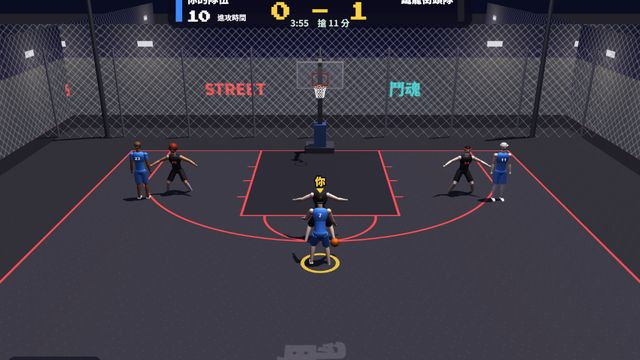
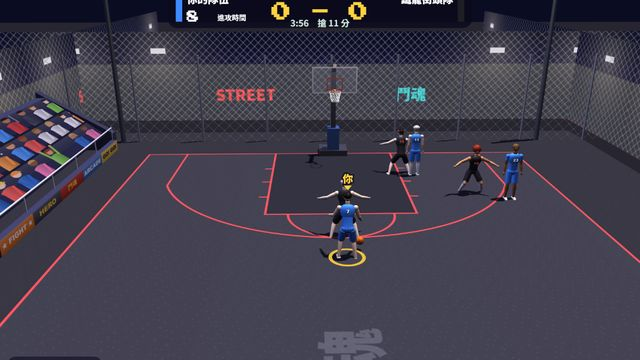
鬥魂系列質感：共用 3D 看台（一排排觀眾、歡呼舉手、廣告牆、欄杆、屋頂）、人物背光、躲避球／足球新貼圖，主視覺重拍 (v321)

Changed region(s): [[0.0, 0.0, 1.0, 0.9167], [0.4375, 0.9167, 0.625, 1.0]]

diff --git a/crowd3d.js b/crowd3d.js
@@ -1,0 +1,79 @@
+// 鬥魂系列共用：3D 看台（階梯座位、一排排的觀眾、廣告看板、欄杆）和觀眾貼圖。
+// window.__CROWD.tex(T,o)  → 觀眾貼圖（兩張：平常／歡呼舉手），o:{night,cols,seed,rows}
+// window.__CROWD.stands(T,o) → {g, update(t,cheer)}；g 的原點在看台最前面中間、地面上，觀眾面向 +Z。
+(function(){
+'use strict';
+const SKIN=['#f2c9a0','#e8b890','#d9a27a','#b8805a','#8a5a3a','#f6d6b8'],HAIR=['#1a1410','#2a1a10','#3a2416','#6a4a2a','#8a6a3a','#c8a060','#2a2a2a','#9a3a1a'];
+function rnd(seed){ let a=seed>>>0||1; return ()=>{ a=a+0x6D2B79F5|0; let t=Math.imul(a^a>>>15,1|a); t=t+Math.imul(t^t>>>7,61|t)^t; return ((t^t>>>14)>>>0)/4294967296; }; }
+const shade=(h,k)=>{ const n=parseInt(String(h).slice(1),16); if(isNaN(n)) return h; const f=v=>Math.max(0,Math.min(255,Math.round(k>1?v+(255-v)*(k-1):v*k))); return 'rgb('+f(n>>16)+','+f(n>>8&255)+','+f(n&255)+')'; };
+// 畫一整面觀眾（一排一排、有座位、有人舉手、拿旗子、戴帽子）
+function paint(c,w,h,o,frame){ const R=rnd(o.seed||7),rows=o.rows||9,rh=h/rows,night=!!o.night;
+  const cols=(o.cols&&o.cols.length?o.cols:[]).concat(['#ff5d4f','#ffd23f','#3ddbd9','#ffffff','#ff7eb6','#86dc4f','#4f9dff','#ff9d3d','#e23b3b','#2f6fd0','#f4f4f4','#3a3a4a']);
+  const seat=night?'#2a2c48':'#4a5068',step=night?'#20223a':'#6a7088';
+  c.fillStyle=step; c.fillRect(0,0,w,h);
+  for(let r=0;r<rows;r++){ const y0=r*rh;
+    // 階梯：每排上面一條亮邊、下面陰影
+    const g=c.createLinearGradient(0,y0,0,y0+rh); g.addColorStop(0,shade(step,1.15)); g.addColorStop(1,shade(step,.75)); c.fillStyle=g; c.fillRect(0,y0,w,rh);
+    c.fillStyle=seat; c.fillRect(0,y0+rh*.42,w,rh*.4); c.fillStyle='rgba(255,255,255,.12)'; c.fillRect(0,y0+rh*.42,w,2);
+    let x=R()*10; const sp=rh*.62;
+    while(x<w+sp){ const empty=R()<.08; if(!empty){ const s=rh/64,cx=x+(R()-.5)*sp*.2,base=y0+rh*.92,sh=cols[Math.floor(R()*cols.length)],sk=SKIN[Math.floor(R()*SKIN.length)],hr=HAIR[Math.floor(R()*HAIR.length)];
+        const up=frame===1?R()<.62:R()<.12,flag=R()<.06,cap=R()<.22,stand=frame===1&&R()<.5,lift=stand?rh*.12:0;
+        // 身體（有亮暗面）
+        const by=base-40*s-lift; const bg=c.createLinearGradient(cx-13*s,0,cx+13*s,0); bg.addColorStop(0,shade(sh,1.15)); bg.addColorStop(1,shade(sh,.72)); c.fillStyle=bg;
+        c.beginPath(); c.moveTo(cx-13*s,base); c.lineTo(cx-12*s,by+6*s); c.quadraticCurveTo(cx,by-2*s,cx+12*s,by+6*s); c.lineTo(cx+13*s,base); c.closePath(); c.fill();
+        // 手：舉起來或放在腿上
+        c.strokeStyle=sh; c.lineCap='round'; c.lineWidth=5*s;
+        if(up){ const sw=(R()-.5)*8*s; for(const d of [-1,1]){ c.beginPath(); c.moveTo(cx+d*10*s,by+8*s); c.lineTo(cx+d*14*s+sw,by-20*s); c.stroke(); c.fillStyle=sk; c.beginPath(); c.arc(cx+d*14*s+sw,by-22*s,3.2*s,0,7); c.fill(); } }
+        else { for(const d of [-1,1]){ c.beginPath(); c.moveTo(cx+d*11*s,by+8*s); c.lineTo(cx+d*6*s,base-8*s); c.stroke(); } }
+        if(flag){ const fx=cx+15*s,fy=by-30*s; c.strokeStyle='#ddd'; c.lineWidth=1.5*s; c.beginPath(); c.moveTo(fx,by+10*s); c.lineTo(fx,fy); c.stroke(); c.fillStyle=cols[Math.floor(R()*3)]; c.beginPath(); c.moveTo(fx,fy); c.lineTo(fx+20*s,fy+5*s+(frame?3*s:0)); c.lineTo(fx,fy+12*s); c.closePath(); c.fill(); }
+        // 頭、頭髮、帽子、臉的陰影
+        const hy=by-9*s; c.fillStyle=sk; c.beginPath(); c.arc(cx,hy,8.5*s,0,7); c.fill(); c.fillStyle='rgba(0,0,0,.12)'; c.beginPath(); c.arc(cx+3*s,hy+2*s,7*s,-.6,1.9); c.fill();
+        if(cap){ c.fillStyle=cols[Math.floor(R()*cols.length)]; c.beginPath(); c.arc(cx,hy-2*s,8.8*s,Math.PI,0); c.fill(); c.fillRect(cx-2*s,hy-3*s,13*s,2.6*s); }
+        else { c.fillStyle=hr; c.beginPath(); c.arc(cx,hy-1.5*s,8.8*s,Math.PI*1.05,Math.PI*1.95); c.fill(); if(R()<.3){ c.fillRect(cx-9*s,hy-2*s,3*s,10*s); c.fillRect(cx+6*s,hy-2*s,3*s,10*s); } }
+        if(night&&R()<.05){ c.fillStyle='rgba(255,255,240,.9)'; c.fillRect(cx+10*s,by-6*s,3*s,4*s); } }
+      x+=sp*(.85+R()*.3); }
+    c.fillStyle='rgba(0,0,0,.18)'; c.fillRect(0,y0+rh-3,w,3); }
+  if(night){ c.fillStyle='rgba(10,12,40,.28)'; c.fillRect(0,0,w,h); } }
+function tex(T,o){ o=o||{}; const out=[0,1].map(fr=>{ const cv=document.createElement('canvas'); cv.width=o.w||1024; cv.height=o.h||512; paint(cv.getContext('2d'),cv.width,cv.height,o,fr); const t=new T.CanvasTexture(cv); t.wrapS=T.RepeatWrapping; t.anisotropy=8; return t; }); return out; }
+// 廣告看板（原創字樣）
+function adTex(T,o){ const cv=document.createElement('canvas'); cv.width=2048; cv.height=96; const c=cv.getContext('2d'); const ads=[['鬥魂','#ffd23f','#c8231a'],['ARCADE','#ffffff','#2f6fd0'],['GO! GO!','#14122b','#ffd23f'],['COLA','#ffffff','#e23b3b'],['SPORT','#ffffff','#1f8a5a'],['RETRO','#ff7eb6','#2a2050'],['★ FIGHT ★','#ffffff','#ff7a1a'],['HERO','#ffd23f','#3a3a4a']];
+  ads.forEach((a,i)=>{ const x=i*256,g=c.createLinearGradient(0,0,0,96); g.addColorStop(0,shade(a[2],1.2)); g.addColorStop(1,shade(a[2],.8)); c.fillStyle=g; c.fillRect(x,0,256,96); c.fillStyle='rgba(255,255,255,.18)'; c.fillRect(x,0,256,8); c.fillStyle='rgba(0,0,0,.35)'; c.fillRect(x+254,0,2,96);
+    c.font='900 50px sans-serif'; c.textAlign='center'; c.textBaseline='middle'; c.fillStyle=a[1]; c.fillText(a[0],x+128,52,230); });
+  const t=new T.CanvasTexture(cv); t.wrapS=T.RepeatWrapping; t.anisotropy=8; return t; }
+// 看台：rows 排、每排深 dz、高 dy；前面一道廣告牆和欄杆；兩側水泥牆；（可選）屋頂和燈
+function stands(T,o){ o=o||{}; const len=o.len||30,rows=o.rows||9,dz=o.dz||.8,dy=o.dy||.55,wallH=o.wall==null?1.1:o.wall,night=!!o.night,g=new T.Group();
+  const conc=new T.MeshLambertMaterial({color:new T.Color(night?'#3a3c58':'#9aa0b0')});
+  const [t0,t1]=tex(T,{night,cols:o.cols,seed:o.seed||11,rows,w:o.texW||2048,h:o.texH||512}); const rep=Math.max(1,len/(o.unit||26)); t0.repeat.set(rep,1); t1.repeat.set(rep,1);
+  // 觀眾斜面（從牆頂往後上方）
+  const depth=rows*dz,height=rows*dy,slope=Math.hypot(depth,height),crowdM=new T.MeshLambertMaterial({map:t0});
+  const cp=new T.Mesh(new T.PlaneGeometry(len,slope),crowdM); cp.position.set(0,wallH+height/2+.25,-depth/2-.3); cp.rotation.x=-Math.atan2(depth,height); /* 往後上方傾斜 */ cp.receiveShadow=true; g.add(cp);
+  // 階梯水泥（看台的實體，讓側面看起來有厚度）
+  const back=new T.Mesh(new T.BoxGeometry(len,height+wallH+.25,.4),conc); back.position.set(0,(height+wallH+.25)/2,-depth-.5); g.add(back);
+  for(const s of [-1,1]){ const sh=new T.Shape(); sh.moveTo(0,0); sh.lineTo(depth+.7,0); sh.lineTo(depth+.7,height+wallH+.5); sh.lineTo(0,wallH+.3); sh.closePath(); const sg=new T.ExtrudeGeometry(sh,{depth:.35,bevelEnabled:false}); const sm=new T.Mesh(sg,conc); sm.rotation.y=Math.PI/2; sm.position.set(s*(len/2)+(s>0?0:-.35),0,0); sm.castShadow=sm.receiveShadow=true; g.add(sm); }
+  // 前面的廣告牆＋欄杆
+  if(wallH>0){ const at=adTex(T); at.repeat.set(Math.max(1,len/16),1); const wall=new T.Mesh(new T.BoxGeometry(len,wallH,.25),[conc,conc,conc,conc,new T.MeshLambertMaterial({map:at}),conc]); wall.position.set(0,wallH/2,0); wall.castShadow=wall.receiveShadow=true; g.add(wall);
+    const rail=new T.MeshPhongMaterial({color:0xc8ccd6,shininess:80,specular:0x777777}); const top=new T.Mesh(new T.CylinderGeometry(.035,.035,len,8),rail); top.rotation.z=Math.PI/2; top.position.set(0,wallH+.55,-.05); g.add(top);
+    for(let x=-len/2;x<=len/2+.01;x+=2){ const p=new T.Mesh(new T.CylinderGeometry(.025,.025,.55,6),rail); p.position.set(x,wallH+.28,-.05); g.add(p); } }
+  // 屋頂和照明
+  if(o.roof){ const rm=new T.MeshLambertMaterial({color:new T.Color(night?'#2a2c40':'#d8dce4')}),rf=new T.Mesh(new T.BoxGeometry(len+1,.25,depth*.8),rm); rf.position.set(0,wallH+height+2.4,-depth*.65); rf.rotation.x=-.12; rf.castShadow=true; g.add(rf);
+    for(let x=-len/2+2;x<len/2;x+=Math.max(4,len/6)){ const col=new T.Mesh(new T.CylinderGeometry(.08,.1,height+2.6,8),rm); col.position.set(x,(wallH+height+2.4)/2,-depth-.2); g.add(col);
+      const lamp=new T.Mesh(new T.BoxGeometry(.8,.25,.2),new T.MeshBasicMaterial({color:night?0xfff6d8:0xe8ecf4})); lamp.position.set(x,wallH+height+2.2,-depth*.3); g.add(lamp); } }
+  let cur=0;
+  return {g,update(t,cheer){ const want=cheer&&Math.floor(t*5)%2?1:0; if(want!==cur){ cur=want; crowdM.map=want?t1:t0; crowdM.needsUpdate=true; } cp.position.y=wallH+height/2+.25+(cheer?Math.abs(Math.sin(t*9))*.04:0); }}; }
+// 球的貼圖（等距長方投影）
+function ballTex(T,kind,col){ const cv=document.createElement('canvas'); cv.width=512; cv.height=256; const c=cv.getContext('2d'),W=512,H=256;
+  if(kind==='soccer'){ c.fillStyle='#f6f6f2'; c.fillRect(0,0,W,H);
+    // 正二十面體的 12 個頂點畫成黑色五角形（經緯度投影，靠近兩極橫向放大）
+    const P=[[90,0]],ph=26.565; for(let i=0;i<5;i++){ P.push([ph,i*72]); P.push([-ph,i*72+36]); } P.push([-90,0]);
+    c.fillStyle='#1c1c24'; for(const [la,lo] of P){ const cy=(90-la)/180*H,cx=lo/360*W,rr=H*.085,sx=1/Math.max(.25,Math.cos(la*Math.PI/180));
+      if(Math.abs(la)>80){ c.fillRect(0,la>0?0:H-rr*.9,W,rr*.9); continue; }
+      for(const off of [-W,0,W]){ c.beginPath(); for(let k=0;k<5;k++){ const a=-Math.PI/2+k/5*Math.PI*2; c.lineTo(cx+off+Math.cos(a)*rr*sx,cy+Math.sin(a)*rr); } c.closePath(); c.fill(); } }
+    c.strokeStyle='rgba(60,60,70,.35)'; c.lineWidth=1.4; for(let i=0;i<14;i++){ c.beginPath(); c.moveTo((i*37)%W,0); c.lineTo((i*37+90)%W,H); c.stroke(); }
+    if(col&&col!=='#ffffff'){ c.globalCompositeOperation='multiply'; c.fillStyle=col; c.fillRect(0,0,W,H); c.globalCompositeOperation='source-over'; } }
+  else if(kind==='dodge'){ const base=col||'#e8402a',g=c.createLinearGradient(0,0,0,H); g.addColorStop(0,shade(base,1.1)); g.addColorStop(1,shade(base,.85)); c.fillStyle=g; c.fillRect(0,0,W,H);
+    for(let i=0;i<6000;i++){ c.fillStyle=i%2?'rgba(0,0,0,.07)':'rgba(255,255,255,.07)'; c.fillRect((i*37.3)%W,(i*17.7)%H,1.5,1.5); }
+    c.strokeStyle=shade(base,.55); c.lineWidth=4; for(let k=0;k<4;k++){ c.beginPath(); for(let x=0;x<=W;x+=4){ const y=H/2+Math.sin(x/W*Math.PI*2*2+k*Math.PI/2)*H*.32; x?c.lineTo(x,y):c.moveTo(x,y); } c.stroke(); }
+    c.fillStyle='rgba(255,255,255,.85)'; c.font='900 40px sans-serif'; c.textAlign='center'; c.textBaseline='middle'; c.fillText('鬥魂',W*.25,H/2); c.fillText('DODGE',W*.75,H/2); }
+  const t=new T.CanvasTexture(cv); t.anisotropy=8; return t; }
+window.__CROWD={tex,stands,adTex,ballTex,paint};
+})();

diff --git a/soccer3d.js b/soccer3d.js
@@ -26,9 +26,11 @@ function make(T,o){ const {W,H,FW,X0,X1,YB,YF,GY0,GY1,cols,bgKey}=o,PI=Math.PI,H
   const fl=add(new T.PlaneGeometry((G1-G0)/SX,(GYb-GYa)/SY),new T.MeshLambertMaterial({map:ftx}),X((G0+G1)/2),0,Z((GYa+GYb)/2)); fl.rotation.x=-PI/2; fl.castShadow=false;
   const outer=add(new T.PlaneGeometry(300,200),new T.MeshLambertMaterial({color:col(o.grass).multiplyScalar(.8)}),0,-.01,0); outer.rotation.x=-PI/2; outer.castShadow=false;
   /* 背景牆：原本的看台、觀眾、廣告看板 */
-  const bc=document.createElement('canvas'); bc.width=FW*2; bc.height=288; const btx=new T.CanvasTexture(bc),BW=FW/SX,BH=BW*144/FW*1.7,BZ=Z(YB)-7;
+  const bc=document.createElement('canvas'); bc.width=FW*2; bc.height=288; const btx=new T.CanvasTexture(bc),BW=FW/SX,BH=BW*144/FW*1.7,BZ=Z(YB)-16;
   btx.wrapS=T.RepeatWrapping; btx.repeat.set(1.6,1); const back=add(new T.PlaneGeometry(BW*1.6,BH),new T.MeshBasicMaterial({map:btx}),X(FW/2),BH/2-1.6,BZ); back.castShadow=back.receiveShadow=false;
   const drawBack=t=>{ const c=bc.getContext('2d'); c.save(); c.scale(2,2); o.bg(c,0,t); c.translate(W-40,0); o.bg(c,W-40,t); c.restore(); btx.needsUpdate=true; }; drawBack(0);
+  const CR=window.__CROWD,ST=CR?CR.stands(T,{len:BW*1.6,rows:10,night,cols:o.cols||[],seed:9,roof:true}):null; if(ST){ ST.g.position.set(X(FW/2),0,Z(YB)-3.2); scene.add(ST.g); }
+  { const rim=new T.DirectionalLight(night?0xa8b8ff:0xfff0e0,.45); rim.position.set(6,10,-24); scene.add(rim); } // 背光：人物輪廓
   /* 球門 */
   const post=ph('#ffffff',70),netM=new T.MeshBasicMaterial({color:0xffffff,transparent:true,opacity:.35,side:T.DoubleSide,wireframe:true,depthWrite:false});
   for(const [gx,d] of [[X0,-1],[X1,1]]){ const x=X(gx),z0=Z(GY0),z1=Z(GY1),hh=2.44,dep=1.4,mz=(z0+z1)/2,wd=z1-z0;
@@ -38,7 +40,7 @@ function make(T,o){ const {W,H,FW,X0,X1,YB,YF,GY0,GY1,cols,bgKey}=o,PI=Math.PI,H
   /* 角旗 */ for(const [x,y] of [[X0,YB],[X0,YF],[X1,YB],[X1,YF]]){ add(new T.CylinderGeometry(.025,.025,1.5,6),ph('#f4f4f4',30),X(x),.75,Z(y)); const f=add(new T.PlaneGeometry(.35,.25),ph('#ff3b3b',10,{side:T.DoubleSide}),X(x)+.17,1.35,Z(y)); f.castShadow=false; }
   /* 球：白底黑色五角形 */
   const bcv=document.createElement('canvas'); bcv.width=256; bcv.height=128; { const c=bcv.getContext('2d'); c.fillStyle=o.ballCol||'#ffffff'; c.fillRect(0,0,256,128); c.fillStyle='#1a1a22'; for(const [x,y] of [[32,30],[96,64],[160,30],[224,64],[32,98],[160,98]]){ c.beginPath(); for(let i=0;i<5;i++){ const a=-PI/2+i/5*PI*2; c.lineTo(x+Math.cos(a)*16,y+Math.sin(a)*16); } c.fill(); } }
-  const ball=add(new T.SphereGeometry(.13,24,16),new T.MeshPhongMaterial({map:new T.CanvasTexture(bcv),shininess:40,specular:0x333333}),0,.13,0); const bglow=add(new T.SphereGeometry(.3,16,12),new T.MeshBasicMaterial({color:0xffffff,transparent:true,opacity:0,depthWrite:false}),0,0,0); bglow.castShadow=bglow.receiveShadow=false;
+  const ball=add(new T.SphereGeometry(.13,24,16),new T.MeshPhongMaterial({map:CR?CR.ballTex(T,'soccer',o.ballCol):new T.CanvasTexture(bcv),shininess:40,specular:0x333333}),0,.13,0); const bglow=add(new T.SphereGeometry(.3,16,12),new T.MeshBasicMaterial({color:0xffffff,transparent:true,opacity:0,depthWrite:false}),0,0,0); bglow.castShadow=bglow.receiveShadow=false;
   /* 球員 */
   const HAIR=['#2a1a10','#1a1418','#7a3b1d','#3a2418'];
   const HP=o.players.map((p,i)=>{ const sh=p.gk?(p.team?'#f2d24a':'#3a3a4a'):cols[p.team],h=H3.build(T,{skin:'#e8b890',shirt:sh,pants:p.gk?'#2a2a30':'#f4f4f4',shoes:'#1a1a22',hair:HAIR[(+p.hair||0)%4],shorts:true,number:p.gk?1:(i%5)+2,numCol:p.gk?'#ffffff':'#ffffff',socks:sh,socksHigh:true});
@@ -52,7 +54,7 @@ function make(T,o){ const {W,H,FW,X0,X1,YB,YF,GY0,GY1,cols,bgKey}=o,PI=Math.PI,H
     if(k===4) return {y:-.7,spine:[-.4,0,0],neck:[.3,0,0],hipR:[-1.5,0,-.05],knR:[.1,0,0],hipL:[-.6,0,.1],knL:[1.4,0,0],shL:[.6,0,.9],shR:[.6,0,-.9],elL:[-.4,0,0],elR:[-.4,0,0]};
     const br=Math.sin(t*2.4+i)*.02; return {y:-.05,spine:[.1+br,0,0],hipL:[-.18,0,.1],hipR:[-.18,0,-.1],knL:[.3,0,0],knR:[.3,0,0],anL:[-.12,0,-.06],anR:[-.12,0,.06],shL:[-.1,0,.2],shR:[-.1,0,-.2],elL:[-.6,0,0],elR:[-.6,0,0]}; }
   const cam=new T.PerspectiveCamera(46,W/H,.1,300),tmp=new T.Vector3(); let lastT=null,frame=0,cx=null,prevB=null;
-  function render(st){ const {P,b,t,camX}=st,dt=lastT==null?.016:Math.min(.1,Math.max(0,t-lastT)); lastT=t; frame++; if(frame%6===1) drawBack(t);
+  function render(st){ const {P,b,t,camX}=st,dt=lastT==null?.016:Math.min(.1,Math.max(0,t-lastT)); lastT=t; frame++; if(frame%6===1) drawBack(t); if(ST) ST.update(t,!!st.cheer);
     P.forEach((p,i)=>{ const E=HP[i]; if(E.lx==null){ E.lx=p.x; E.ly=p.y; } const vx=(p.x-E.lx)/(dt||.016),vy=(p.y-E.ly)/(dt||.016); E.lx=p.x; E.ly=p.y; E.spd+=(Math.hypot(vx,vy)-E.spd)*Math.min(1,dt*10);
       const k=p.state===4||p.slideT>0?4:p.kickT>0?2:p.moving?1:0;
       let ta=p.face>0?PI/2:-PI/2; if((k===1||k===4)&&E.spd>20) ta=Math.atan2(vx/SX,vy/SY); let da=ta-E.ang; while(da>PI) da-=PI*2; while(da<-PI) da+=PI*2; E.ang+=da*Math.min(1,dt*12);

diff --git a/dodge3d.js b/dodge3d.js
@@ -26,14 +26,14 @@ function make(T,o){ const {W,H,X0,X1,MID,YB,YF,cols,bg,court}=o,PI=Math.PI,H3=wi
   const fl=add(new T.PlaneGeometry((G1-G0)/SX,(GY1-GY0)/SY),new T.MeshLambertMaterial({map:ftx}),X((G0+G1)/2),0,Z((GY0+GY1)/2)); fl.rotation.x=-PI/2; fl.castShadow=false;
   const outer=add(new T.PlaneGeometry(200,200),new T.MeshLambertMaterial({color:col(o.ground.g)}),0,-.01,0); outer.rotation.x=-PI/2; outer.castShadow=false;
   /* 背景牆：原本的天空、看台與加油布條 */
-  const bc=document.createElement('canvas'); bc.width=960; bc.height=244; const btx=new T.CanvasTexture(bc),BW=56,BH=BW*244/960,BZ=Z(YB)-8;
+  const bc=document.createElement('canvas'); bc.width=960; bc.height=244; const btx=new T.CanvasTexture(bc),BW=56,BH=BW*244/960,BZ=Z(YB)-13;
   const back=add(new T.PlaneGeometry(BW,BH),new T.MeshBasicMaterial({map:btx}),0,BH/2-1.2,BZ); back.castShadow=back.receiveShadow=false;
   const drawBack=()=>{ const c=bc.getContext('2d'); c.save(); c.scale(2,2); bg(c); c.restore(); btx.needsUpdate=true; }; drawBack();
   /* 看台：場邊兩排階梯座位（立體）＋觀眾 */
-  const stand=new T.Group(); scene.add(stand); const crowdC=['#ff5d4f','#ffd23f','#3ddbd9','#ffffff','#ff7eb6','#86dc4f','#4f9dff','#ff9d3d'];
-  for(let r2=0;r2<3;r2++){ add(new T.BoxGeometry(34,.5,1),ph(night?'#3a3860':'#9aa0b4',10),0,.25+r2*.5,BZ+3.2-r2*1,stand); for(let i=0;i<34;i++){ const fan=new T.Group(); fan.position.set(-16.5+i+(r2%2)*.5,.5+r2*.5,BZ+3.2-r2*1); stand.add(fan); add(new T.BoxGeometry(.42,.5,.3),ph(crowdC[(i*3+r2*5)%8],10),0,.25,0,fan); add(new T.SphereGeometry(.16,10,8),ph('#f0c098',20),0,.66,0,fan); fan.userData.ph=i*.9+r2*2; } }
+  const CR=window.__CROWD,ST=CR?CR.stands(T,{len:44,rows:8,night,cols,seed:5,roof:true}):null; if(ST){ ST.g.position.set(0,0,Z(YB)-3.4); scene.add(ST.g); ST.g.traverse(m=>{ if(m.isMesh){ m.castShadow=m.castShadow&&m.geometry.type!=='PlaneGeometry'; m.receiveShadow=true; } }); }
+  { const rim=new T.DirectionalLight(night?0xa8b8ff:0xfff0e0,.45); rim.position.set(4,9,-18); scene.add(rim); } // 背光：人物輪廓更立體
   /* 球 */
-  const ball=add(new T.SphereGeometry(.16,24,16),ph(o.ballCol||'#ffffff',40),0,.16,0); const bglow=add(new T.SphereGeometry(.34,16,12),new T.MeshBasicMaterial({color:0xffffff,transparent:true,opacity:0,depthWrite:false}),0,0,0); bglow.castShadow=bglow.receiveShadow=false;
+  const ball=add(new T.SphereGeometry(.16,24,16),CR?new T.MeshPhongMaterial({map:CR.ballTex(T,'dodge',o.ballCol&&o.ballCol!=='#ffffff'?o.ballCol:'#e8402a'),shininess:45,specular:0x444444}):ph(o.ballCol||'#ffffff',40),0,.16,0); const bglow=add(new T.SphereGeometry(.34,16,12),new T.MeshBasicMaterial({color:0xffffff,transparent:true,opacity:0,depthWrite:false}),0,0,0); bglow.castShadow=bglow.receiveShadow=false;
   /* 球員 */
   const HAIR=['#2a1a10','#1a1418','#7a3b1d','#3a2418'];
   const HP=o.players.map((p,i)=>{ const h=H3.build(T,{skin:'#e8b890',shirt:cols[p.team],pants:'#2b3f9e',shoes:'#f4f4f4',hair:HAIR[(+p.hair||0)%4],shorts:true,number:(i%6)+1,numCol:'#ffffff',socks:'#ffffff'});
@@ -50,7 +50,7 @@ function make(T,o){ const {W,H,X0,X1,MID,YB,YF,cols,bg,court}=o,PI=Math.PI,H3=wi
     const br=Math.sin(t*2.4+i)*.02; return {y:-.08,spine:[.14+br,0,0],neck:[-.06,0,0],hipL:[-.28,0,.14],hipR:[-.28,0,-.14],knL:[.45,0,0],knR:[.45,0,0],anL:[-.2,0,-.1],anR:[-.2,0,.1],shL:[-.25,0,.25],shR:[-.25,0,-.25],elL:[-.9,0,0],elR:[-.9,0,0]}; }
   const cam=new T.PerspectiveCamera(42,W/H,.1,300),tmp=new T.Vector3(),hand=new T.Vector3(); let lastT=null,frame=0,cx=0;
   function render(st){ const {P,b,t}=st,dt=lastT==null?.016:Math.min(.1,Math.max(0,t-lastT)); lastT=t; frame++; if(frame%6===1) drawBack();
-    stand.children.forEach(f=>{ if(f.userData.ph!=null) f.position.y=f.position.y-(f.userData.j||0)+(f.userData.j=Math.max(0,Math.sin(t*5+f.userData.ph))*.12); });
+    if(ST) ST.update(t,P.some(p=>p.state===4||p.state===5&&p.st<1.6));
     P.forEach((p,i)=>{ const E=HP[i]; const gone=p.state===5&&p.st>1.2; E.wrap.visible=!gone; if(gone) return; if(E.lx==null){ E.lx=p.x; E.ly=p.y; }
       const vx=(p.x-E.lx)/(dt||.016),vy=(p.y-E.ly)/(dt||.016); E.lx=p.x; E.ly=p.y; E.spd+=(Math.hypot(vx,vy)-E.spd)*Math.min(1,dt*10);
       const k=p.state===5||p.state===4?4:p.throwT>0?2:p.duck?3:p.catchT>0?6:p.moving?1:0;

diff --git a/baseball3d.js b/baseball3d.js
@@ -64,7 +64,8 @@ function make(T,o){ const {W,H,ZX,ZY,ZW,ZH,L,fence,FPOS,BASE,kfBK}=o,PI=Math.PI,
   const crowdT=canv(512,256,(c,w,h)=>{ c.fillStyle=night?'#1a1c34':'#3a3e52'; c.fillRect(0,0,w,h); const C=['#ff5d4f','#ffd23f','#3ddbd9','#ffffff','#ff7eb6','#86dc4f','#4f9dff','#ff9d3d','#e23b3b','#2f6fd0'];
     for(let y=0;y<h;y+=16){ c.fillStyle=night?'#2a2d52':'#6a7090'; c.fillRect(0,y+12,w,4); for(let x=(y/16%2)*6;x<w;x+=12){ const k=(x*7+y*13+((x*y)%7))%C.length; c.fillStyle=C[k]; c.fillRect(x+1,y+5,9,8); c.fillStyle=['#f2c9a0','#c68a5e','#8d5a3a','#e0ac80'][(x+y)%4]; c.beginPath(); c.arc(x+5.5,y+3.5,3.2,0,7); c.fill(); } } });
   crowdT.wrapS=crowdT.wrapT=T.RepeatWrapping; crowdT.repeat.set(1,1);
-  const stands=band(a=>fr(a)+1,a=>fr(a)+48,3.4,30,-1.35,1.35,new T.MeshLambertMaterial({map:crowdT,side:T.DoubleSide}),60); stands.material.map.repeat.set(1,2.4);
+  const CRT=window.__CROWD?window.__CROWD.tex(T,{night,rows:9,seed:3}):null; if(CRT) for(const q of CRT){ q.wrapT=T.RepeatWrapping; q.repeat.set(.3,6); }
+  const stands=band(a=>fr(a)+1,a=>fr(a)+48,3.4,30,-1.35,1.35,new T.MeshLambertMaterial({map:CRT?CRT[0]:crowdT,side:T.DoubleSide}),60); if(!CRT) stands.material.map.repeat.set(1,2.4);
   band(a=>fr(a)+.2,a=>fr(a)+1.2,3.2,3.4,-1.35,1.35,lam('#2a2e40'),1);
   band(a=>fr(a)+48,a=>fr(a)+50,30,36,-1.35,1.35,lam(night?'#14162e':'#4a4f66',{side:T.DoubleSide}),1); // 屋簷
   for(const s of [-1,1]){ const rr=fr(s*PI/4); add(new T.CylinderGeometry(.18,.18,26,10),ph('#ffd23f',40),s*rr*.7071+s*.3,13,-rr*.7071-.3); }
@@ -168,7 +169,7 @@ function make(T,o){ const {W,H,ZX,ZY,ZW,ZH,L,fence,FPOS,BASE,kfBK}=o,PI=Math.PI,
     pitch(st){ const {t,fc,bc,pp,bp,cy,pit,showBall,cheer}=st; board(st.board); const dt=lastT==null?.016:cl(t-lastT,0,.1); lastT=t; teamsFor(fc,bc); hideAll(); view='pitch';
       const pc=PC[st.lefty?1:0]; cam.position.copy(pc.pos); cam.quaternion.copy(pc.q); cam.fov=pc.fov; cam.updateProjectionMatrix(); sun.target.position.set(0,0,-10); sun.position.set(night?5:-20,night?60:sunset?22:50,night?25:28);
       if(st.cam){ cam.position.set(...st.cam[0]); cam.lookAt(...st.cam[1]); cam.fov=st.cam[2]||30; cam.updateProjectionMatrix(); } /* 測試用：換個角度看 */
-      crowdT.offset.y=cheer?Math.abs(Math.sin(t*9))*.012:0;
+      { const mp=stands.material; if(CRT){ const want=cheer&&Math.floor(t*5)%2?CRT[1]:CRT[0]; if(mp.map!==want){ mp.map=want; mp.needsUpdate=true; } mp.map.offset.y=cheer?Math.abs(Math.sin(t*9))*.01:0; } else crowdT.offset.y=cheer?Math.abs(Math.sin(t*9))*.012:0; }
       pitcherPose(FL[0],pp,dt); pball.visible=pp<.78;
       for(let i=2;i<9;i++){ const q=FPOS[i]; place(FL[i],q[0]*FT,-q[1]*FT,Math.atan2(0-q[0]*FT,0+q[1]*FT),poseOf(pp>.6&&pp<1||pit?'ready':'stand',t,i),dt); }
       batterPose(BT,bp,cy||0,t,!!st.lefty);

diff --git a/bball3d.js b/bball3d.js
@@ -44,6 +44,8 @@ function make(T,o){ const {W,H,HX,HY,RIMZ,ARC,CT,bg,shade}=o,PI=Math.PI,H3=windo
     const ftx2=new T.CanvasTexture(fcv); ftx2.wrapS=ftx2.wrapT=T.RepeatWrapping; ftx2.repeat.set(60,8); const fm=new T.MeshBasicMaterial({map:ftx2,transparent:true,side:T.DoubleSide,depthWrite:false});
     const fen=add(new T.PlaneGeometry(30,4),fm,X(900),2,Z(320)); fen.rotation.y=-PI/2; fen.castShadow=false; for(let i=-15;i<=15;i+=3) add(new T.CylinderGeometry(.05,.05,4,8),ph('#8a8e98',60),X(900),2,Z(320)+i); }
   if(night) for(const gy of [-70,710]){ add(new T.CylinderGeometry(.08,.12,9,10),ph('#4a4e58',40),X(900),4.5,Z(gy)); const lp=add(new T.BoxGeometry(.5,.3,1.2),new T.MeshBasicMaterial({color:0xfff6d8}),X(900)-.2,9,Z(gy)); lp.castShadow=false; }
+  const CR=window.__CROWD,big=indoor||CT.bg==='school',ST=CR?CR.stands(T,{len:big?44:22,rows:indoor?10:CT.bg==='school'?6:3,wall:big?1:.45,night,cols:o.cols||[],seed:13,roof:indoor}):null; if(ST){ ST.g.position.set(X(410),0,Z(-70)); scene.add(ST.g); }
+  { const rim=new T.DirectionalLight(night?0xa8b8ff:0xfff0e0,.42); rim.position.set(4,10,-20); scene.add(rim); } // 背光：人物輪廓
   /* 籃架：籃板、籃框、籃網 */
   const RX=X(HX),RY=3.05,RZ=Z(HY),hoop=new T.Group(); scene.add(hoop);
   const boardCv=document.createElement('canvas'); boardCv.width=360; boardCv.height=210; { const c=boardCv.getContext('2d'); c.fillStyle='rgba(230,240,250,.28)'; c.fillRect(0,0,360,210); c.strokeStyle='#ffffff'; c.lineWidth=10; c.strokeRect(5,5,350,200); c.strokeStyle=o.rimC||'#e8402a'; c.lineWidth=8; c.strokeRect(120,92,120,90); }
@@ -90,7 +92,7 @@ function make(T,o){ const {W,H,HX,HY,RIMZ,ARC,CT,bg,shade}=o,PI=Math.PI,H3=windo
       default: { const br=Math.sin(t*2.4+i)*.02; return {y:-.03,spine:[.06+br,0,0],hipL:[-.08,0,.05],hipR:[-.08,0,-.05],knL:[.16,0,0],knR:[.16,0,0],anL:[-.08,0,-.05],anR:[-.08,0,.05],shL:[.05,0,.14],shR:[.05,0,-.14],elL:[-.3,0,0],elR:[-.3,0,0]}; } } }
   /* 鏡頭 */
   const cam=new T.PerspectiveCamera(36,W/H,.1,200); let czS=0,view='side',lastT=null,cx=X(-150),hand=new T.Vector3(),hand2=new T.Vector3(),tmp=new T.Vector3(),bshow=null,blend=0,wasHeld=false,frame=0,fallT=[0,0,0,0,0,0];
-  function render(st){ const {P,b,t,swish}=st,dt=lastT==null?.016:Math.min(.1,Math.max(0,t-lastT)); lastT=t; frame++;
+  function render(st){ const {P,b,t,swish}=st,dt=lastT==null?.016:Math.min(.1,Math.max(0,t-lastT)); lastT=t; frame++; if(ST) ST.update(t,!!swish);
     if(frame%4===1) drawBack(t,swish);
     // 球員
     P.forEach((p,i)=>{ const E=HP[i]; if(E.lx==null){ E.lx=p.x; E.ly=p.y; }

diff --git a/index.html b/index.html
@@ -298,9 +298,9 @@ body.padswap #pad{flex-direction:row-reverse} /* 方向鍵放右邊 */
 <div id="modal" hidden><div class="card" id="mcard"></div></div>
 
 <script>
-window.ARCADE_V=316; // 每次改版加一
+window.ARCADE_V=321; // 每次改版加一
 (function(){ var q=/github\.io$/.test(location.hostname)?'?v='+window.ARCADE_V:'';
-  document.write(['stairs','kart','bomb','volley','dodge3d','dodge','soccer3d','soccer','bowl3d','bowl','baseball3d','baseball','purple','rummy','mahjong','meow','poker','dice','deliver3d','deliver','chess','qi','racer','brawl','bball3d','bball','h3d','golf3d','golf','pool3d','pool','blocks','drum','dance','tower','jelly','rich','space','royale','draw','wolf','passbomb','bubble','claw','tank','dash','spin','night','chase3d','chase','sumo','sky','boxing','ace','classic','hide','spy','sling','room','boomcode','tug','truth','charades','party','gems','chair','tacit','piano','stroke','dragon','badminton','cook','fish','pickleball','tennis','pingpong','racket'].map(function(n){ return '<script src="'+n+'.js'+q+'"><\/script>'; }).join('')); })();
+  document.write(['stairs','kart','bomb','volley','crowd3d','dodge3d','dodge','soccer3d','soccer','bowl3d','bowl','baseball3d','baseball','purple','rummy','mahjong','meow','poker','dice','deliver3d','deliver','chess','qi','racer','brawl','bball3d','bball','h3d','golf3d','golf','pool3d','pool','blocks','drum','dance','tower','jelly','rich','space','royale','draw','wolf','passbomb','bubble','claw','tank','dash','spin','night','chase3d','chase','sumo','sky','boxing','ace','classic','hide','spy','sling','room','boomcode','tug','truth','charades','party','gems','chair','tacit','piano','stroke','dragon','badminton','cook','fish','pickleball','tennis','pingpong','racket'].map(function(n){ return '<script src="'+n+'.js'+q+'"><\/script>'; }).join('')); })();
 </script>
 <script>
 (function(){

diff --git a/soccer.js b/soccer.js
@@ -316,7 +316,7 @@ function create(env,opts){
 
   function draw(){
     ctx.save(); if(shake>0) ctx.translate((Math.random()-.5)*shake*22,(Math.random()-.5)*shake*16);
-    if(G3){ G3.render({P,b:ball,t,camX:cam,ctrl:[0,1].filter(tm=>human[tm]&&(!net||tm===me)).map(tm=>ctrl[tm]),shotCol:ball.type&&SHOT[ball.type]?SHOT[ball.type].col:null}); ctx.drawImage(G3.canvas,0,0,W,H);
+    if(G3){ G3.render({P,b:ball,t,camX:cam,cheer:goalT>0||!!ball.type,ctrl:[0,1].filter(tm=>human[tm]&&(!net||tm===me)).map(tm=>ctrl[tm]),shotCol:ball.type&&SHOT[ball.type]?SHOT[ball.type].col:null}); ctx.drawImage(G3.canvas,0,0,W,H);
       for(let tm=0;tm<2;tm++) if(human[tm]&&(!net||tm===me)){ const p=P[ctrl[tm]]; if(!p) continue; const [hx,hy]=G3.head(p.id); ctx.fillStyle=tm?'#3ddbd9':'#ffd23f'; ctx.beginPath(); ctx.moveTo(hx-6,hy-8); ctx.lineTo(hx+6,hy-8); ctx.lineTo(hx,hy); ctx.fill(); }
       for(const f of fx){ const [sx,sy]=G3.toScreen(f.x,f.y,0); ctx.globalAlpha=Math.max(0,f.life/f.max); ctx.fillStyle=f.col; const z=f.size*(.5+f.life/f.max*.5); ctx.fillRect(sx-z/2,sy-z/2,z,z); } ctx.globalAlpha=1;
       for(const r of rings){ const u=r.t/r.max,[sx,sy]=G3.toScreen(r.x,r.y,0); ctx.globalAlpha=1-u; ctx.strokeStyle=r.col; ctx.lineWidth=6*(1-u)+1; ctx.beginPath(); ctx.ellipse(sx,sy,r.r*u,r.r*u*.45,0,0,7); ctx.stroke();
